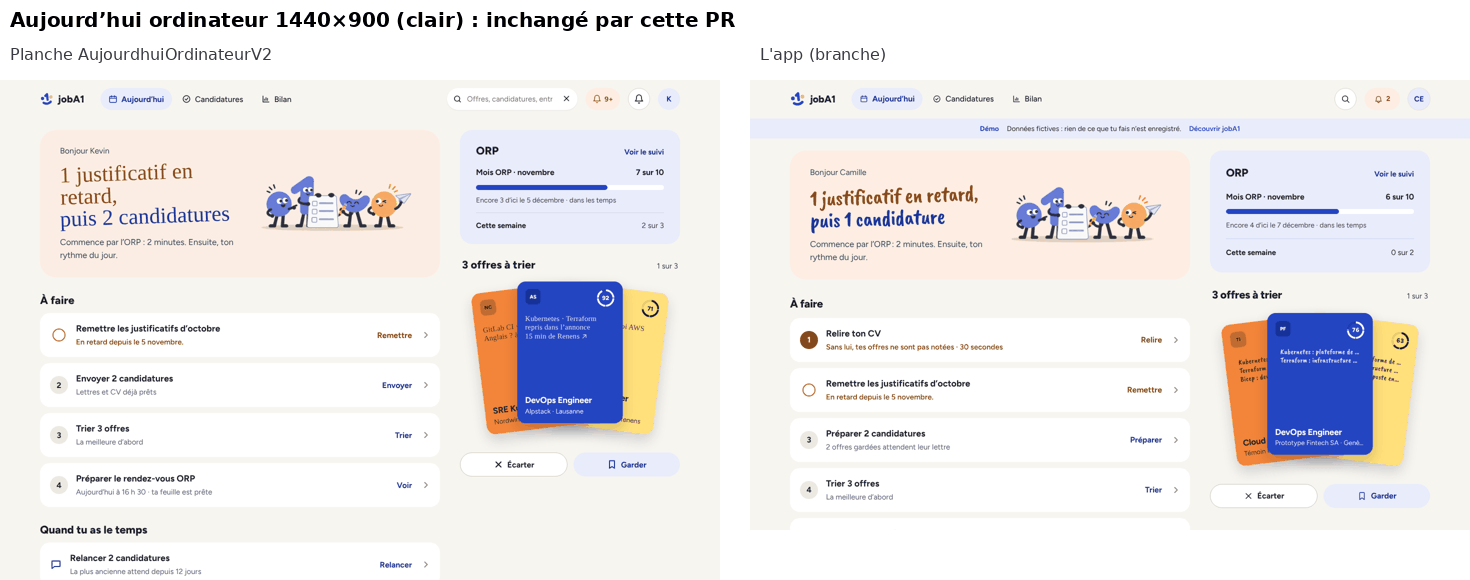
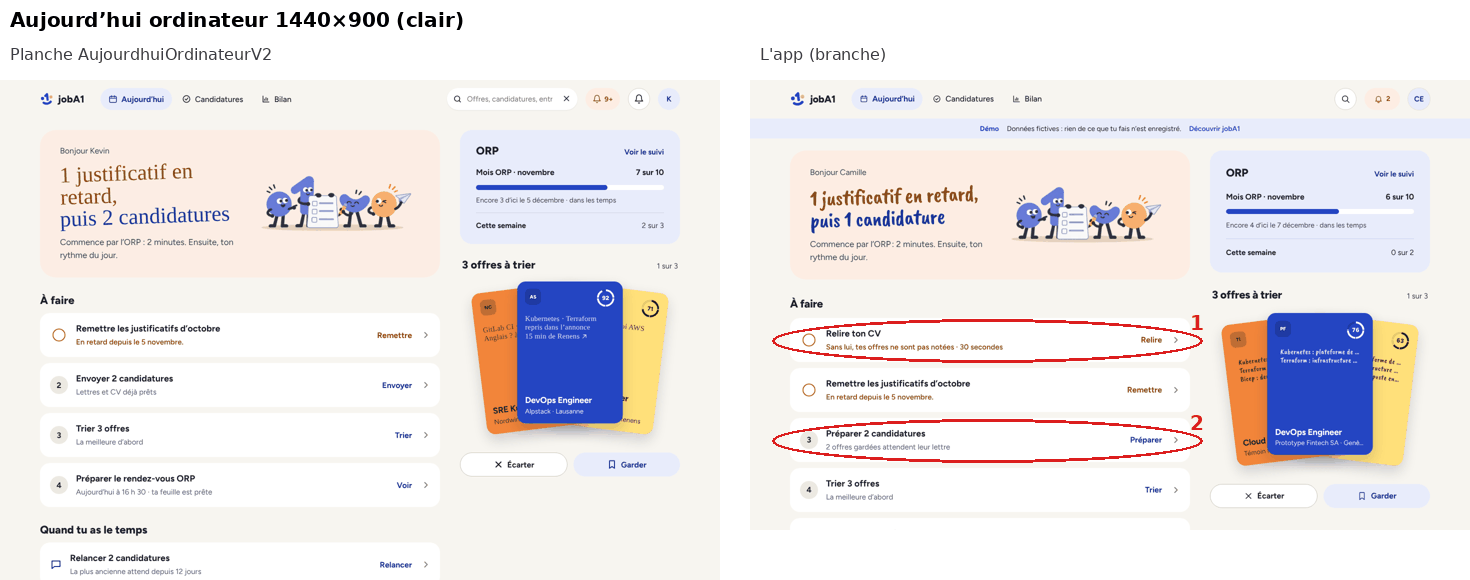
Aujourd'hui ordinateur : même rond orange vide pour une tâche en retard
Claude-Session: https://claude.ai/code/session_014TQZXF3khvdA8DfF6EykWa

diff --git a/frontend/src/views/TodayView.vue b/frontend/src/views/TodayView.vue
@@ -734,6 +734,13 @@ const { me } = useAuth();
                 class="aj-num aj-num-check"
                 aria-hidden="true"
               />
+              <!-- Une tâche bloquante ou en retard n'a pas de numéro : un rond orange vide (Kevin, 18.11, comme le §61). -->
+              <span
+                v-else-if="group.numbered && task.tone === 'late'"
+                class="aj-num aj-num-late"
+                aria-hidden="true"
+                data-test="aj-late-ring"
+              />
               <b
                 v-else-if="group.numbered"
                 class="aj-num"
@@ -883,6 +890,12 @@ const { me } = useAuth();
 .aj-checkable { position: relative; }
 .aj-checkable > .task-check { position: absolute; z-index: 1; top: 50%; left: var(--space-4); transform: translateY(-50%); }
 .today-task .aj-num-check { background: none; }
+/* Le rond orange vide d'une tâche bloquante ou en retard : 26 px, bord de 2 px, comme le cercle à cocher du §61. */
+.aj { --aj-ring: 1.625rem; --aj-ring-late: #B4631F; }
+@media (prefers-color-scheme: dark) { :root:not([data-theme="light"]) .aj { --aj-ring-late: var(--peach-text); } }
+:root[data-theme="dark"] .aj { --aj-ring-late: var(--peach-text); }
+.today-task .aj-num-late { background: none; }
+.aj-num-late::before { content: ""; box-sizing: border-box; width: var(--aj-ring); height: var(--aj-ring); border: 2px solid var(--aj-ring-late); border-radius: 50%; }
 .aj-icon { flex: none; width: var(--space-6); height: var(--space-6); color: var(--tone-text); }
 .aj-task-main { flex: 1; min-width: 0; }
 .aj-task-main strong { display: block; font-size: var(--aj-18); line-height: var(--space-6); font-weight: var(--weight-bold); overflow-wrap: anywhere; }

diff --git a/frontend/src/views/TodayView.cv.test.ts b/frontend/src/views/TodayView.cv.test.ts
@@ -55,6 +55,9 @@ describe("« Relire ton CV » dans Aujourd’hui (PR 22)", () => {
     expect(first.text()).toContain("Relire ton CV");
     expect(first.text()).toContain("Sans lui, tes offres ne sont pas notées · 30 secondes");
     expect(first.attributes("href")).toBe("/profil");
+    // Tâche en retard : un rond orange vide, pas de numéro (Kevin, 18.11).
+    expect(first.find("[data-test=aj-late-ring]").exists()).toBe(true);
+    expect(first.find(".aj-num").text()).toBe("");
   });
 
   it("téléphone : première ligne de « À faire », rond orange vide à la place du numéro, puis 2, 3… (Kevin, 18.11)", async () => {

diff --git a/docs/decisions/2026-11-18-1015-accueil-taches-en-retard.md b/docs/decisions/2026-11-18-1015-accueil-taches-en-retard.md
@@ -2,3 +2,4 @@
 
 - Écart 1 de la #858 : la version de la PR est gardée. Après le tri du jour, seulement « Top du jour » (75 et plus), en liste, comme AccueilV2. Le carrousel « Offres » de main disparaît.
 - Écart 2 de la #858 : une tâche bloquante ou en retard n'a pas de numéro. Elle a un rond orange vide (#B4631F, en sombre la couleur pêche), comme « Remettre les justificatifs » dans AccueilV2. « Relire ton CV » a donc ce rond, puis 2, 3, 4… pour les autres tâches. Son sous-titre reste en orange, « · 30 secondes » inclus.
+- Ordinateur (même règle, planche AujourdhuiOrdinateurV2, qui dessine le rond pour les justificatifs) : « Relire ton CV » perd son « 1 » sur fond orange et prend le même rond vide de 26 px, aligné au pixel avec le cercle à cocher des justificatifs.

diff --git a/changelog.d/accueil-taches-en-retard.md b/changelog.d/accueil-taches-en-retard.md
@@ -1,1 +1,1 @@
-Accueil téléphone : « Relire ton CV » et toute tâche en retard ont un rond orange vide au lieu d'un numéro.
+Aujourd'hui sur téléphone et ordinateur : « Relire ton CV » et toute tâche en retard ont un rond orange vide au lieu d'un numéro.
